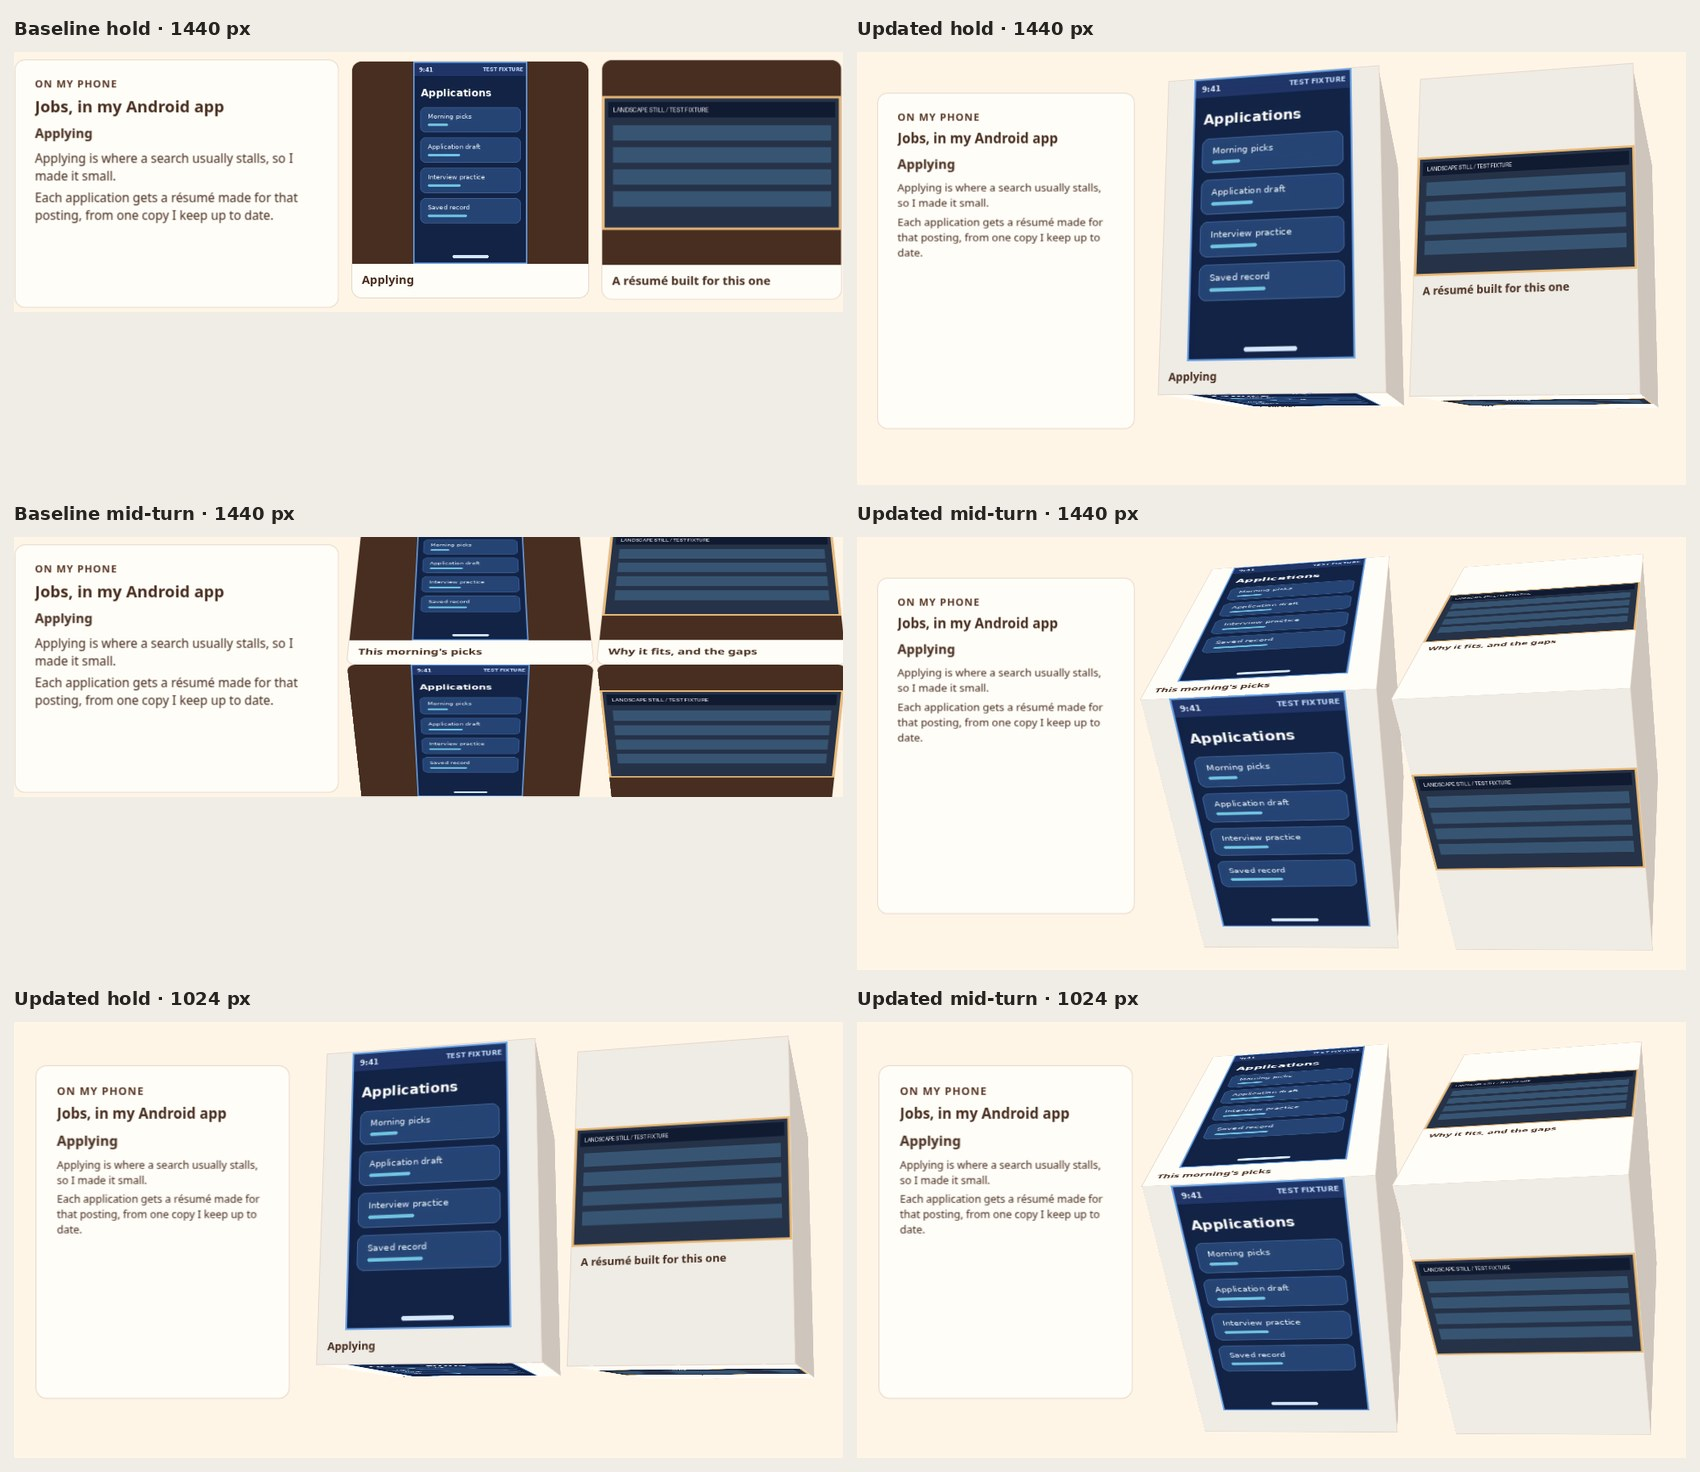
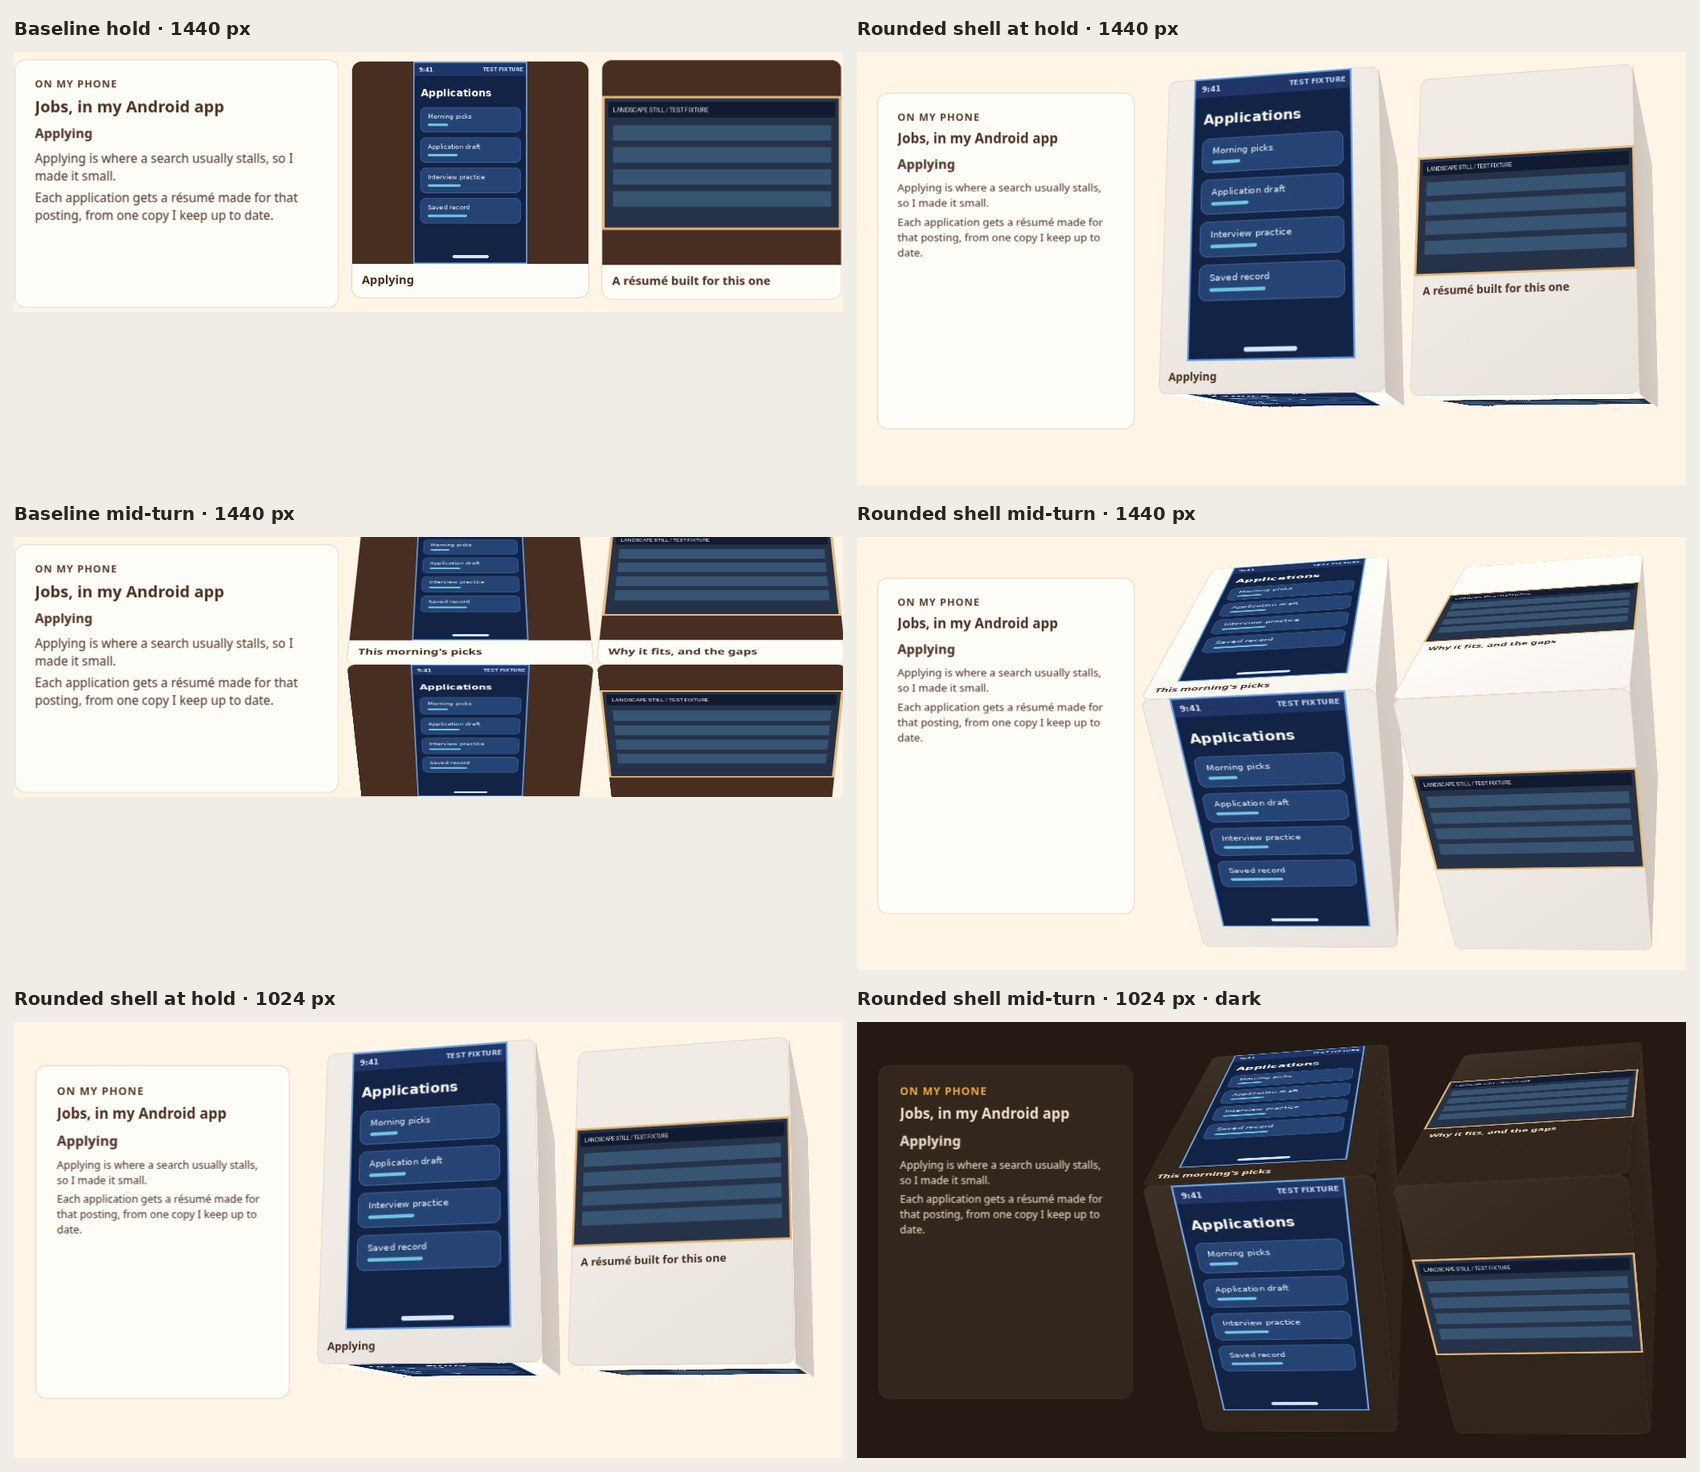
feat(www): soften the portfolio media shell edges
Round the scene faces and end caps consistently and add subtle
theme-based shading and inset edge highlights.

Change-Kind: story

diff --git a/apps/www/landing/index.html b/apps/www/landing/index.html
@@ -638,6 +638,7 @@
         .cube-camera {
           --edge: calc(100cqi * var(--media-depth));
           --depth: calc(var(--edge) / 2);
+          --shell-radius: clamp(7px, 4cqi, 11px);
           height: 100%;
           transform-origin: center center calc(-1 * var(--depth));
           transform: rotateX(12deg) rotateY(-10deg);
@@ -657,19 +658,32 @@
         .ring--cube .face {
           display: grid;
           align-content: center;
-          border-radius: 0;
+          --panel: var(--card);
           transform: rotateX(calc(var(--i) * -90deg)) translateZ(var(--depth));
         }
         .ring--cube .face:nth-child(even) {
-          background: color-mix(in oklab, var(--card) 92%, var(--screen));
+          --panel: color-mix(in oklab, var(--card) 92%, var(--screen));
+        }
+        .ring--cube .face,
+        .cube-cap {
+          border-radius: var(--shell-radius);
+          background: linear-gradient(
+            145deg,
+            color-mix(in oklab, var(--panel) 93%, var(--screen-fg)),
+            var(--panel) 45%,
+            color-mix(in oklab, var(--panel) 96%, var(--screen))
+          );
+          box-shadow:
+            inset 0 0 0 1px var(--line),
+            inset 0 1px 2px
+              color-mix(in oklab, var(--screen-fg) 12%, transparent);
         }
         .cube-cap {
+          --panel: color-mix(in oklab, var(--card) 78%, var(--screen));
           position: absolute;
           inset-block: 0;
           left: 50%;
           width: var(--edge);
-          background: color-mix(in oklab, var(--card) 75%, var(--screen));
-          box-shadow: inset 0 0 0 1px var(--line);
           backface-visibility: hidden;
           transform: translateX(-50%) rotateY(var(--cap-turn)) translateZ(50cqi);
         }
